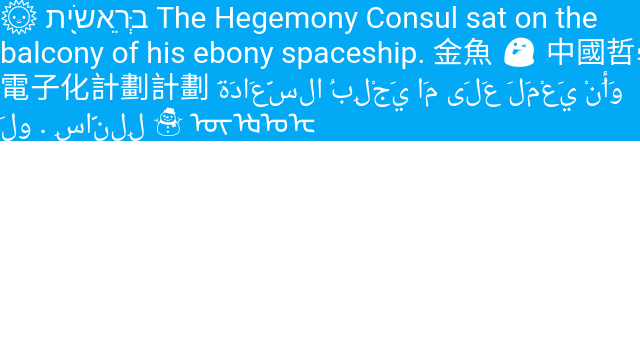
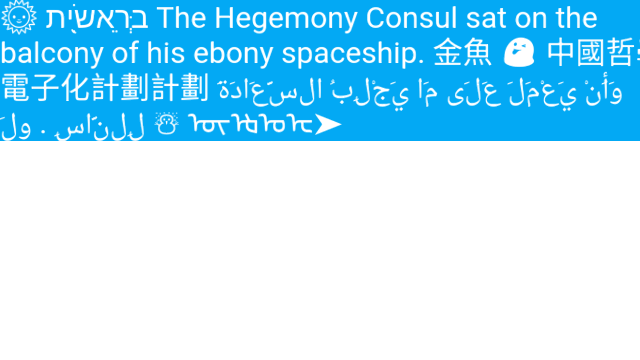
Update layout tests for symbol font changes
Modified the system fallback layout test to account for slightly
different looking symbols in the new font file and to test for the
symbol that previously showed as tofu.

diff --git a/cobalt/layout_tests/testdata/css3-fonts/5-2-use-system-fallback-if-no-matching-family-is-found.html b/cobalt/layout_tests/testdata/css3-fonts/5-2-use-system-fallback-if-no-matching-family-is-found.html
@@ -21,7 +21,7 @@
 </head>
 <body>
   <div class="containing-block">
-    <span>🌞 בְּרֵאשִׁ֖ית The Hegemony Consul sat on the balcony of his ebony spaceship. 金魚 😜 中國哲學書電子化計劃計劃 وَأَنْ يَعْمَلَ عَلَى مَا يَجْلِبُ السَّعَادَةَ لِلنَّاسِ . ولَ  ☃ ᠦᡈᠣᡄ</span>
+    <span>🌞 בְּרֵאשִׁ֖ית The Hegemony Consul sat on the balcony of his ebony spaceship. 金魚 😜 中國哲學書電子化計劃計劃 وَأَنْ يَعْمَلَ عَلَى مَا يَجْلِبُ السَّعَادَةَ لِلنَّاسِ . ولَ  ☃ ᠦᡈᠣᡄ➤</span>
   </div>
 </body>
 </html>
